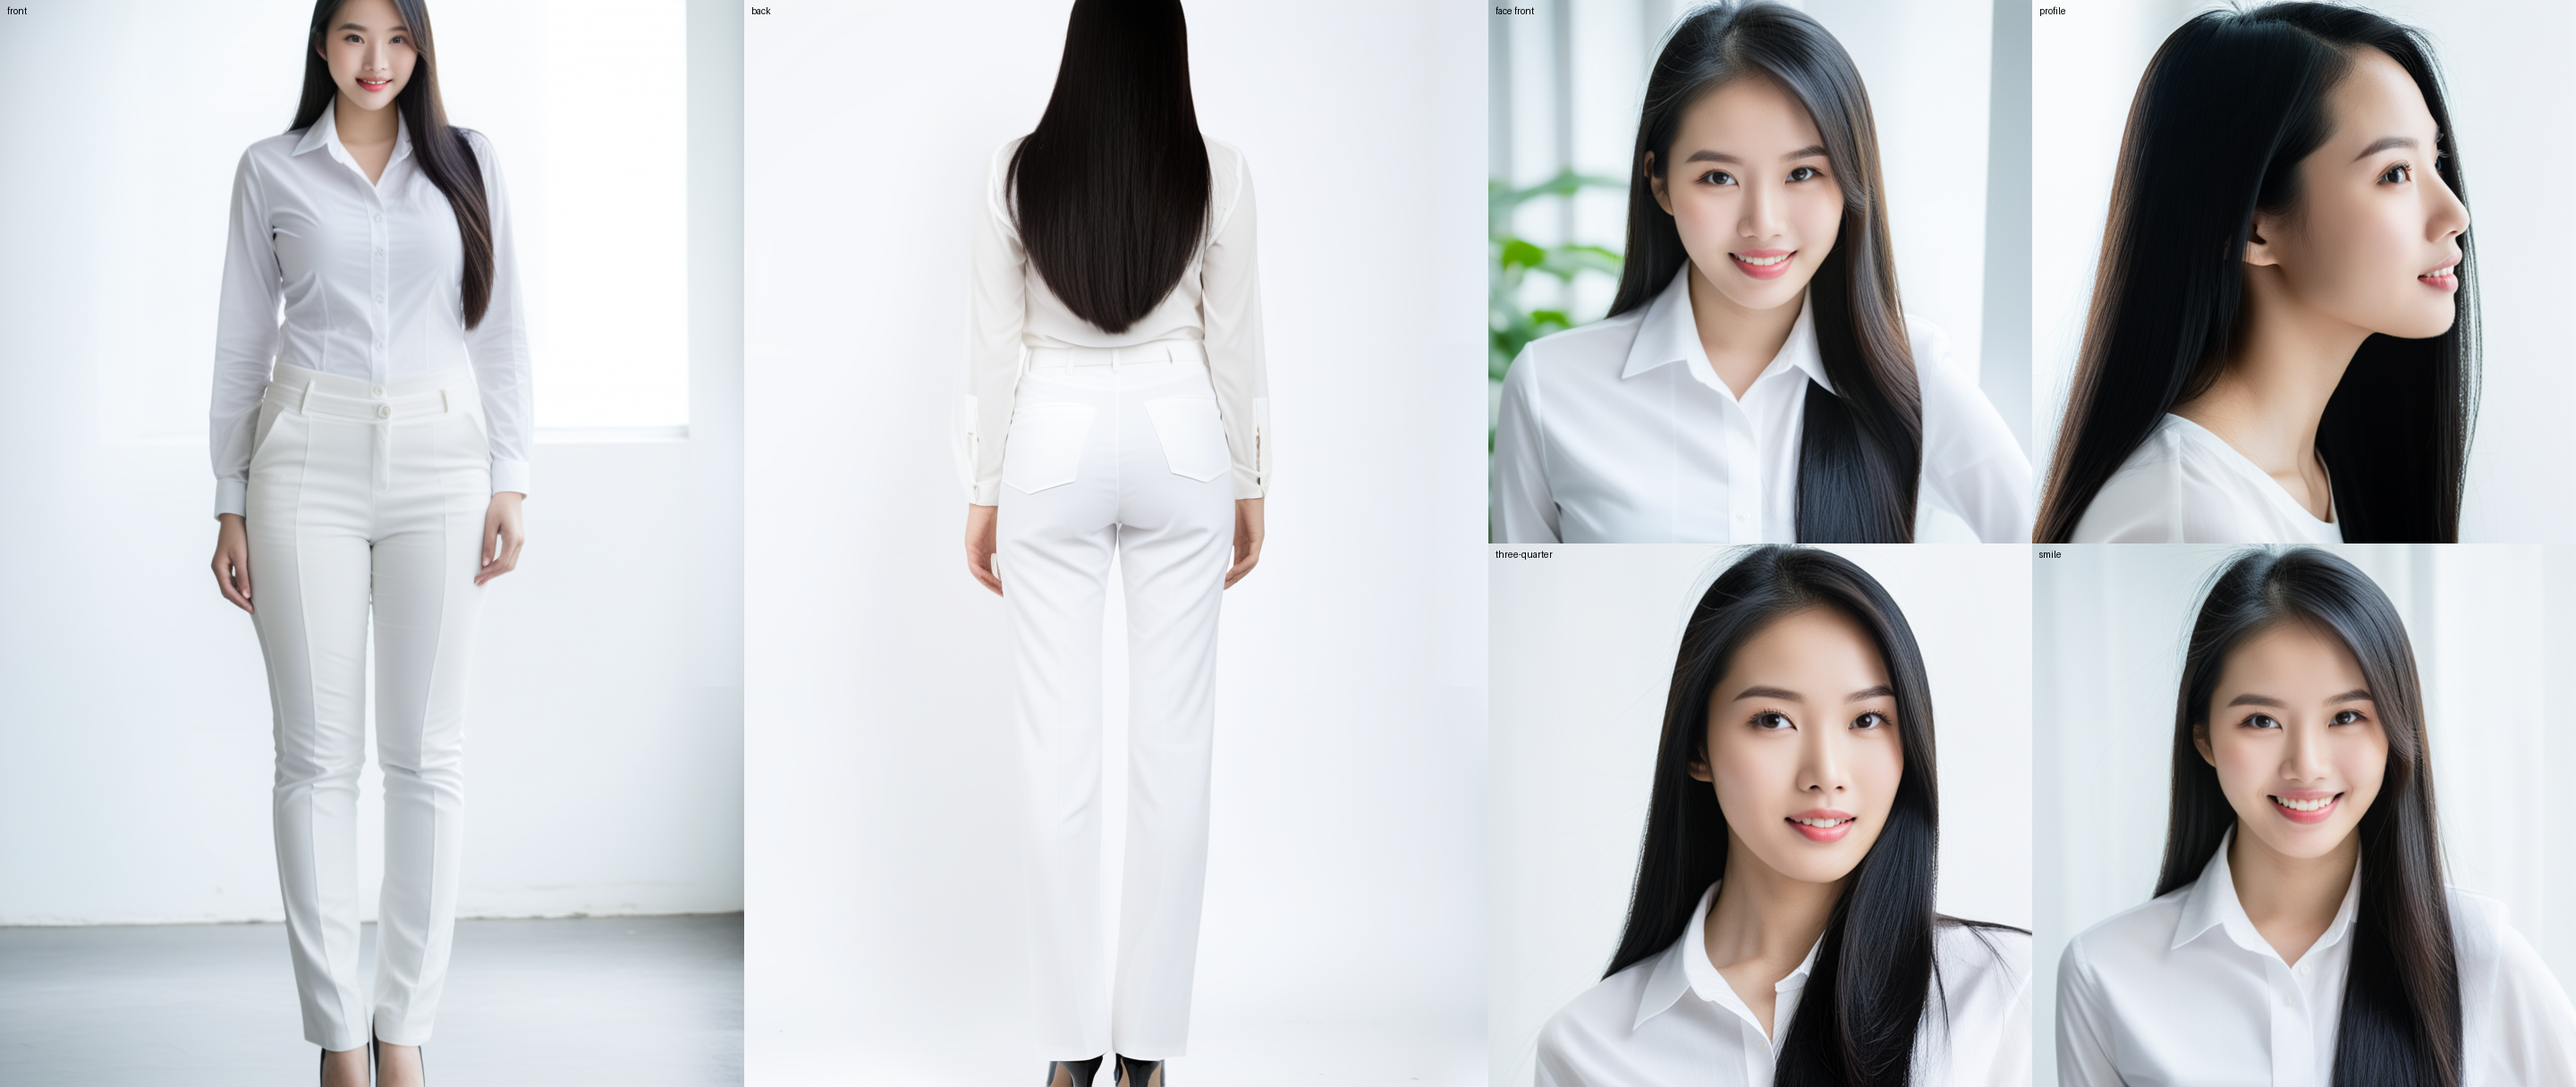
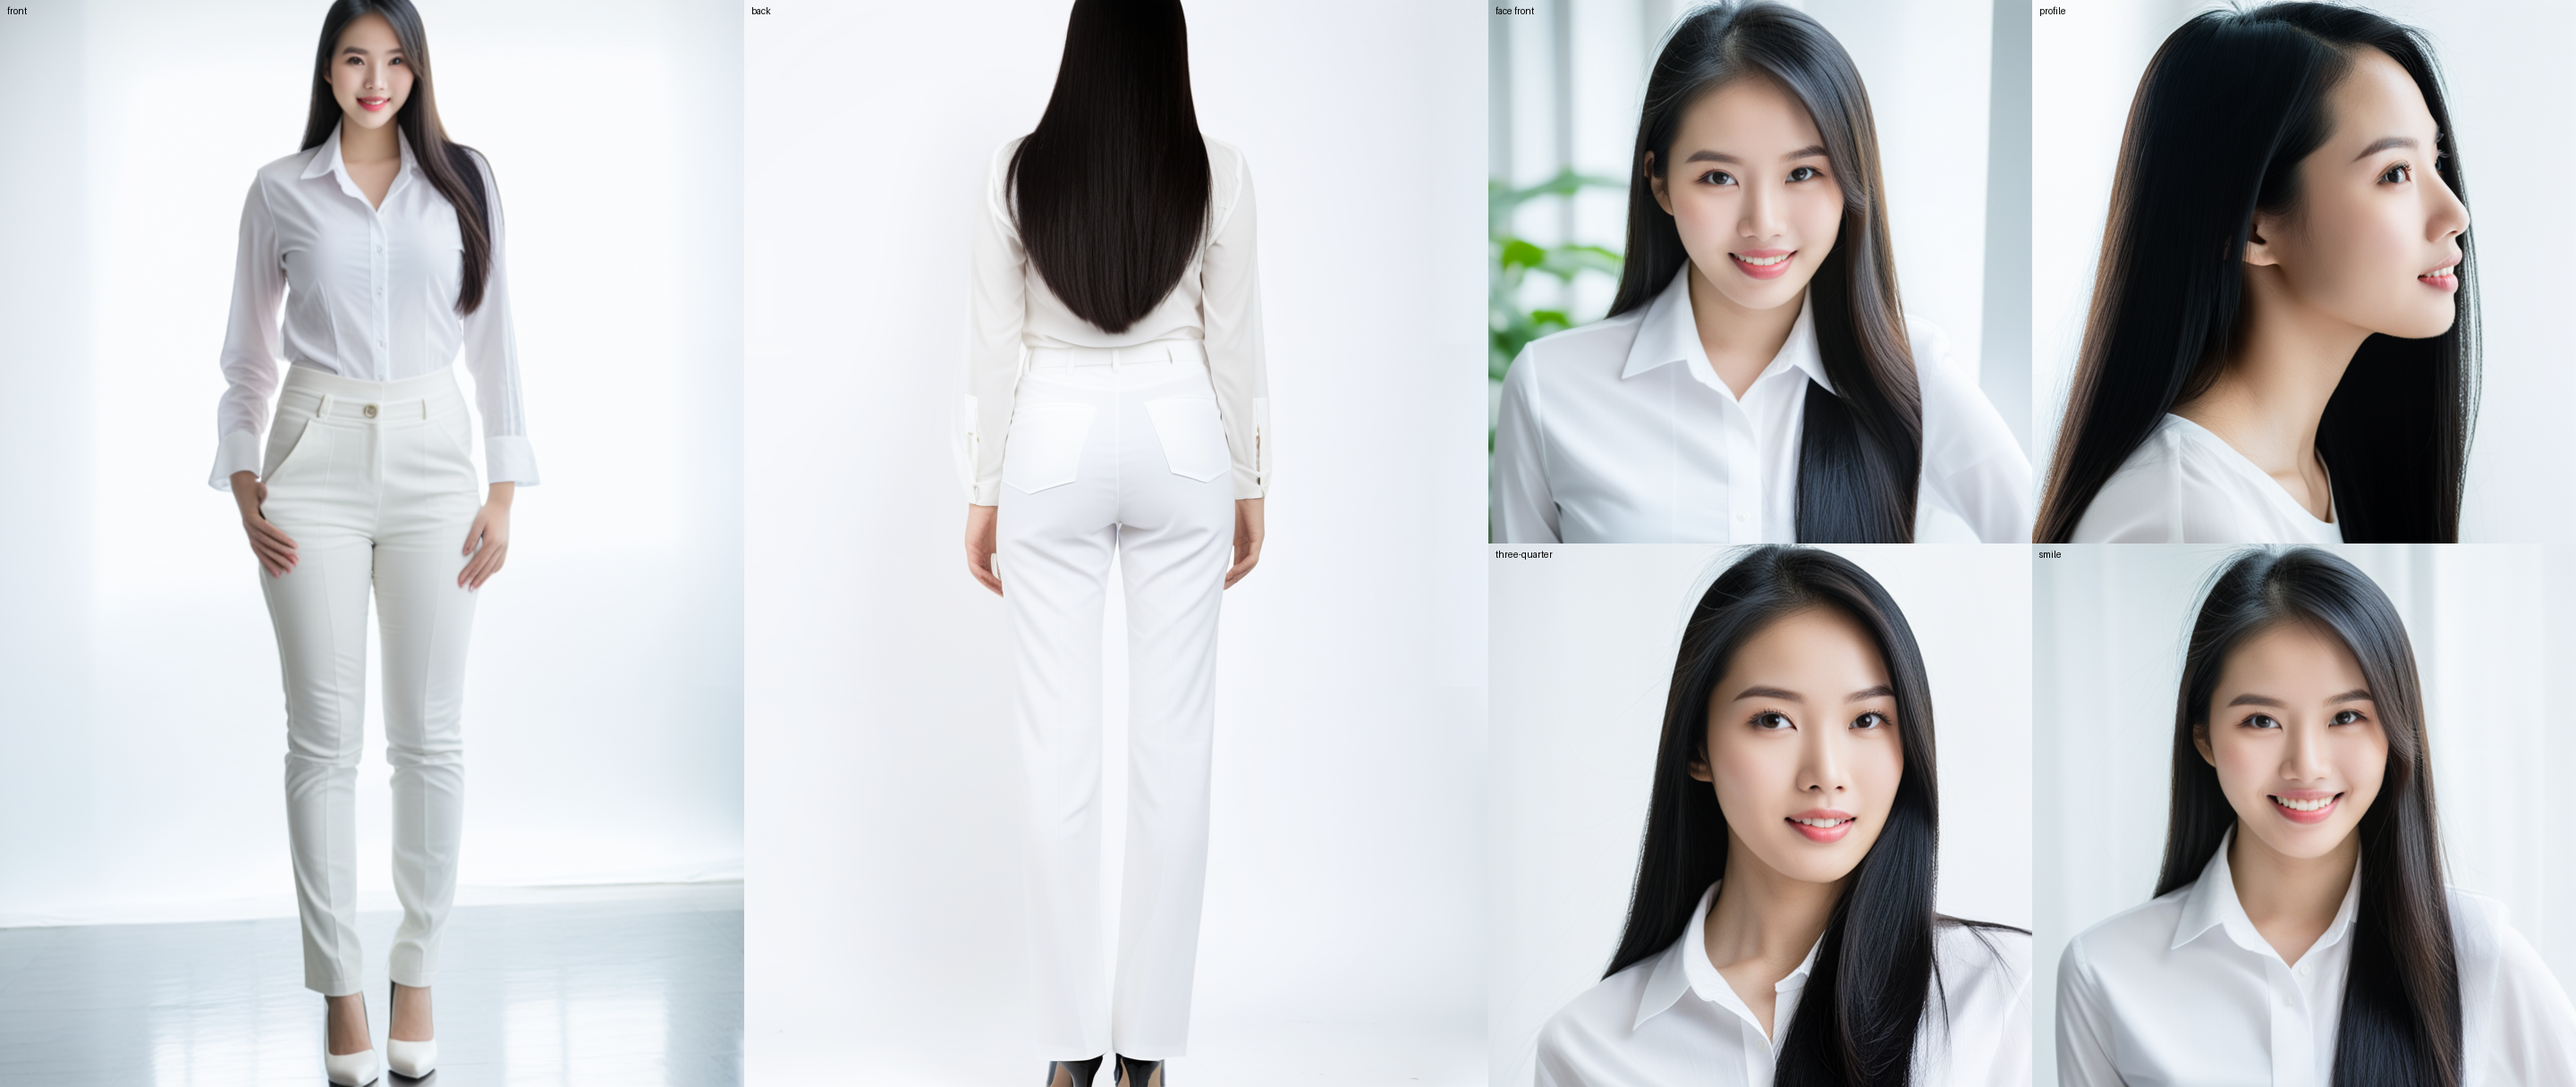
feat(phase28): Task 28.2 woman's full-front with the torso depth map (fuller bust, narrow waist and hips)

Changed region(s): [[0.0, 0.0, 0.3125, 1.0], [0.1562, 0.4375, 0.2188, 0.5312], [0.25, 0.9375, 0.2812, 0.9688]]

diff --git a/.viepilot/phases/28-semi-realistic-style/tasks/task-28.2.md b/.viepilot/phases/28-semi-realistic-style/tasks/task-28.2.md
@@ -176,3 +176,10 @@ The depth ControlNet alone (the silhouette without the skeleton) broke the figur
 together is the only variant that worked (the first image), at about 20 minutes an image because the two
 controls plus the UNet overflow the 12 GB card. The script is back to "both"; two seeds are run in the
 background (seeds 7 and 21). Option 2 (a body-shape LoRA) is not pursued: see the answer to the owner.
+
+### Result of the body map (2026-10-06), awaiting owner approval
+
+Pose + depth, seeds 7 and 21 (about 1000 s each): both show a visibly fuller bust, a narrow waist and
+narrow hips, with the head and shoes in frame; seed 21 is on the woman's sheet (full front). The other five
+woman panels are unchanged. The depth map is used only for the full-front panel: in the close-ups the chest
+is out of frame, and in the back view it is not needed.
